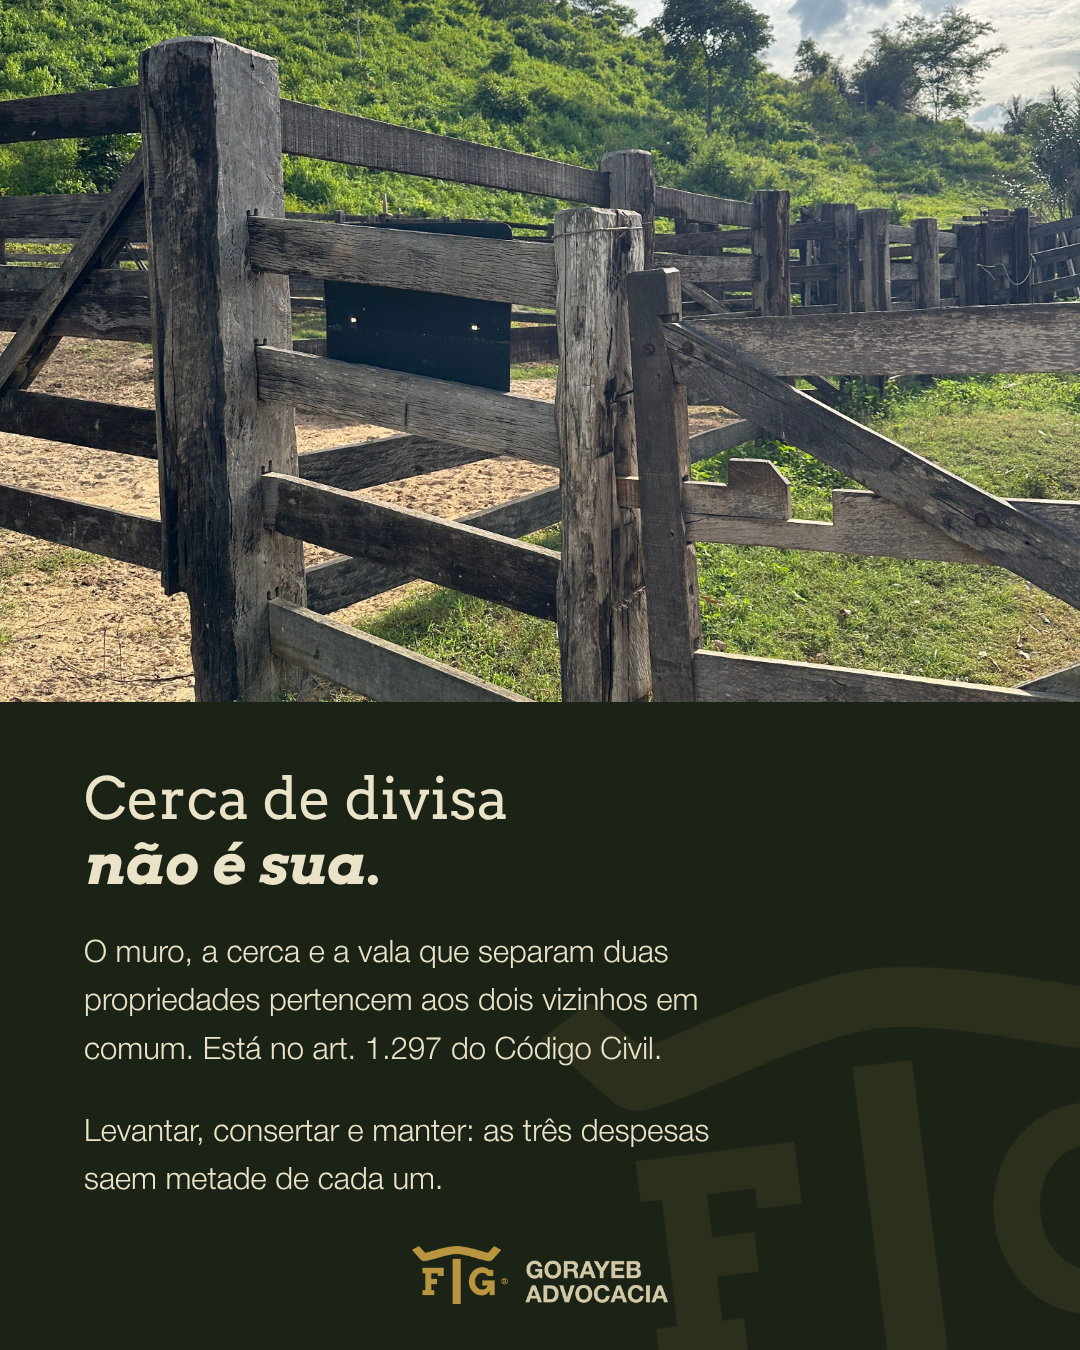
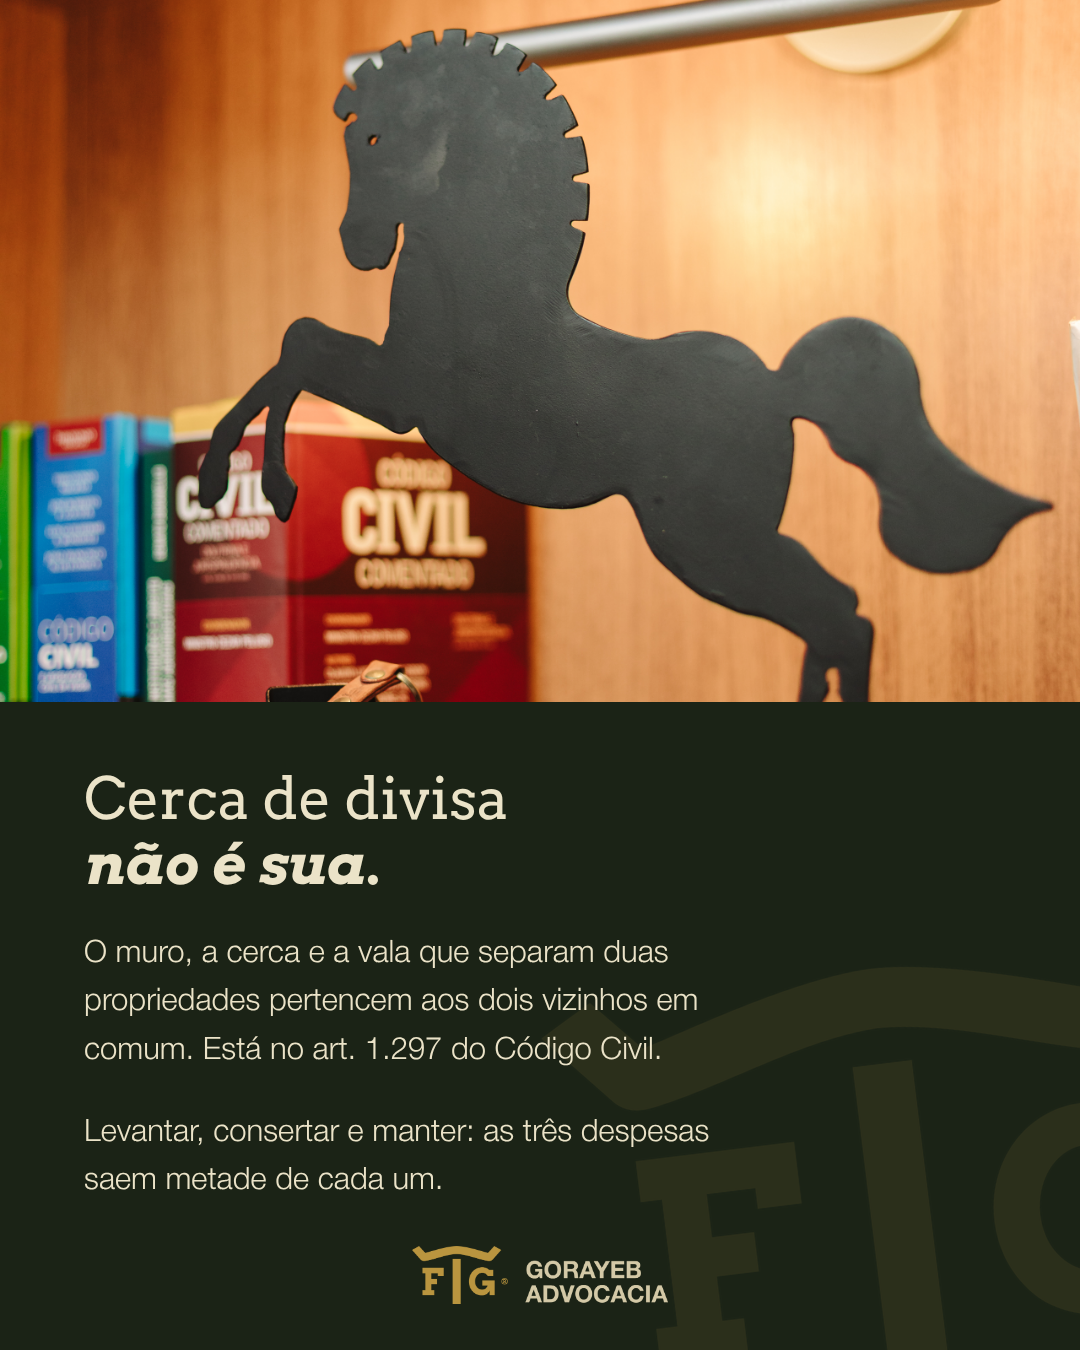
Põe o escritório da Gorayeb dentro do carrossel
Chegaram 208 fotos do banco do Drive, com a pasta ESPAÇO que eu ainda
não tinha visto. Ali está o agro dentro do escritório: o cavalo de ferro
ao lado dos Códigos Civis, o chapéu de palha no sofá de couro, o quadro
com colheitadeira e a Dama da Justiça, a parede com a marca e o
versículo, os bois na estante.

O carrossel passa a abrir no cerrado, explicar a lei com o cavalo ao
lado do Código Civil, provar com o Fernando assinando e fechar no chapéu
sobre o couro. Campo genérico do Pinterest só onde a paisagem é o
assunto.

Claude-Session: https://claude.ai/code/session_01PNm9HeejNLCDTQ5J6fF2k9

diff --git a/docs/gorayeb/template/base.css b/docs/gorayeb/template/base.css
@@ -80,6 +80,9 @@
 /* overlay: sempre, pra tipografia ler. verde por padrão, marrom quando a foto é quente */
 .veu-verde  { position: absolute; inset: 0; z-index: 0;
   background: linear-gradient(180deg, rgba(22,34,17,.30) 0%, rgba(22,34,17,.55) 45%, rgba(22,34,17,.92) 100%); }
+/* fecho sobre foto: o texto fica no meio, então o véu é parelho e mais forte */
+.slide.fecho-foto .veu-verde {
+  background: linear-gradient(180deg, rgba(20,28,16,.70) 0%, rgba(20,28,16,.80) 42%, rgba(20,28,16,.88) 100%); }
 .veu-marrom { position: absolute; inset: 0; z-index: 0;
   background: linear-gradient(180deg, rgba(67,26,10,.25) 0%, rgba(67,26,10,.55) 45%, rgba(67,26,10,.92) 100%); }
 .veu-topo   { position: absolute; inset: 0; z-index: 0;
